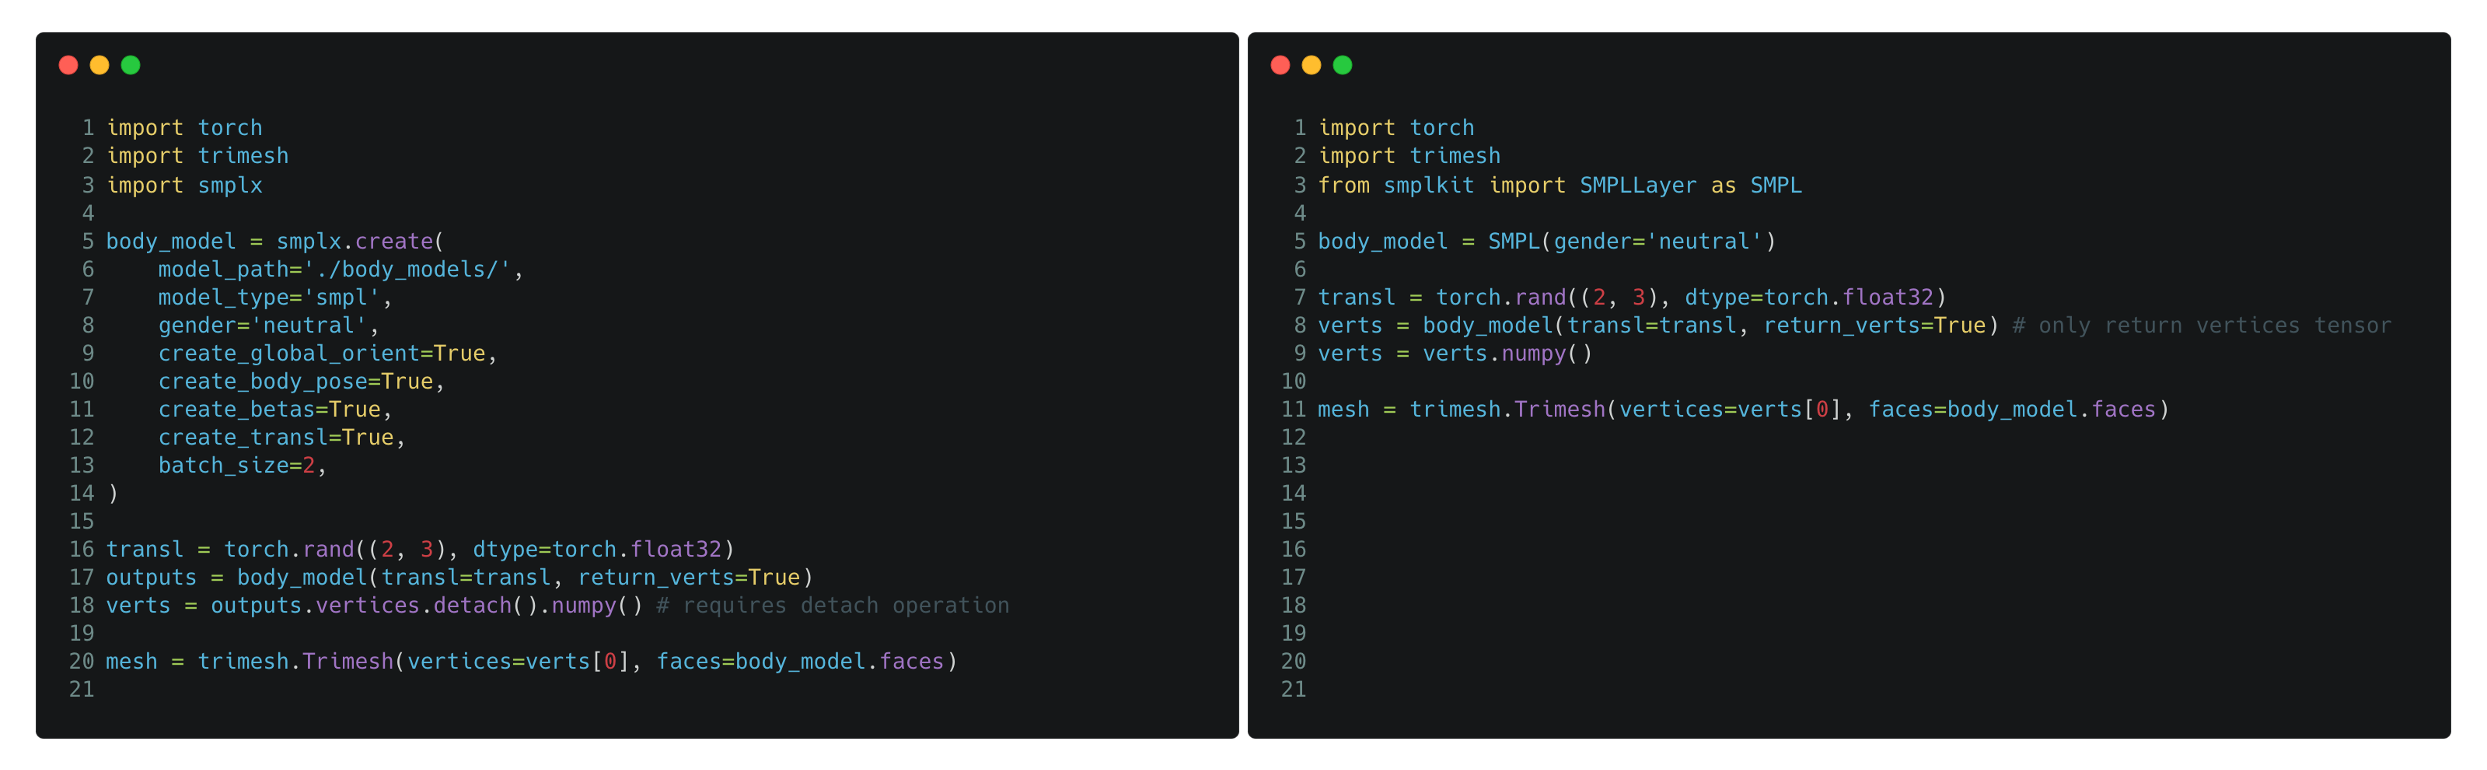
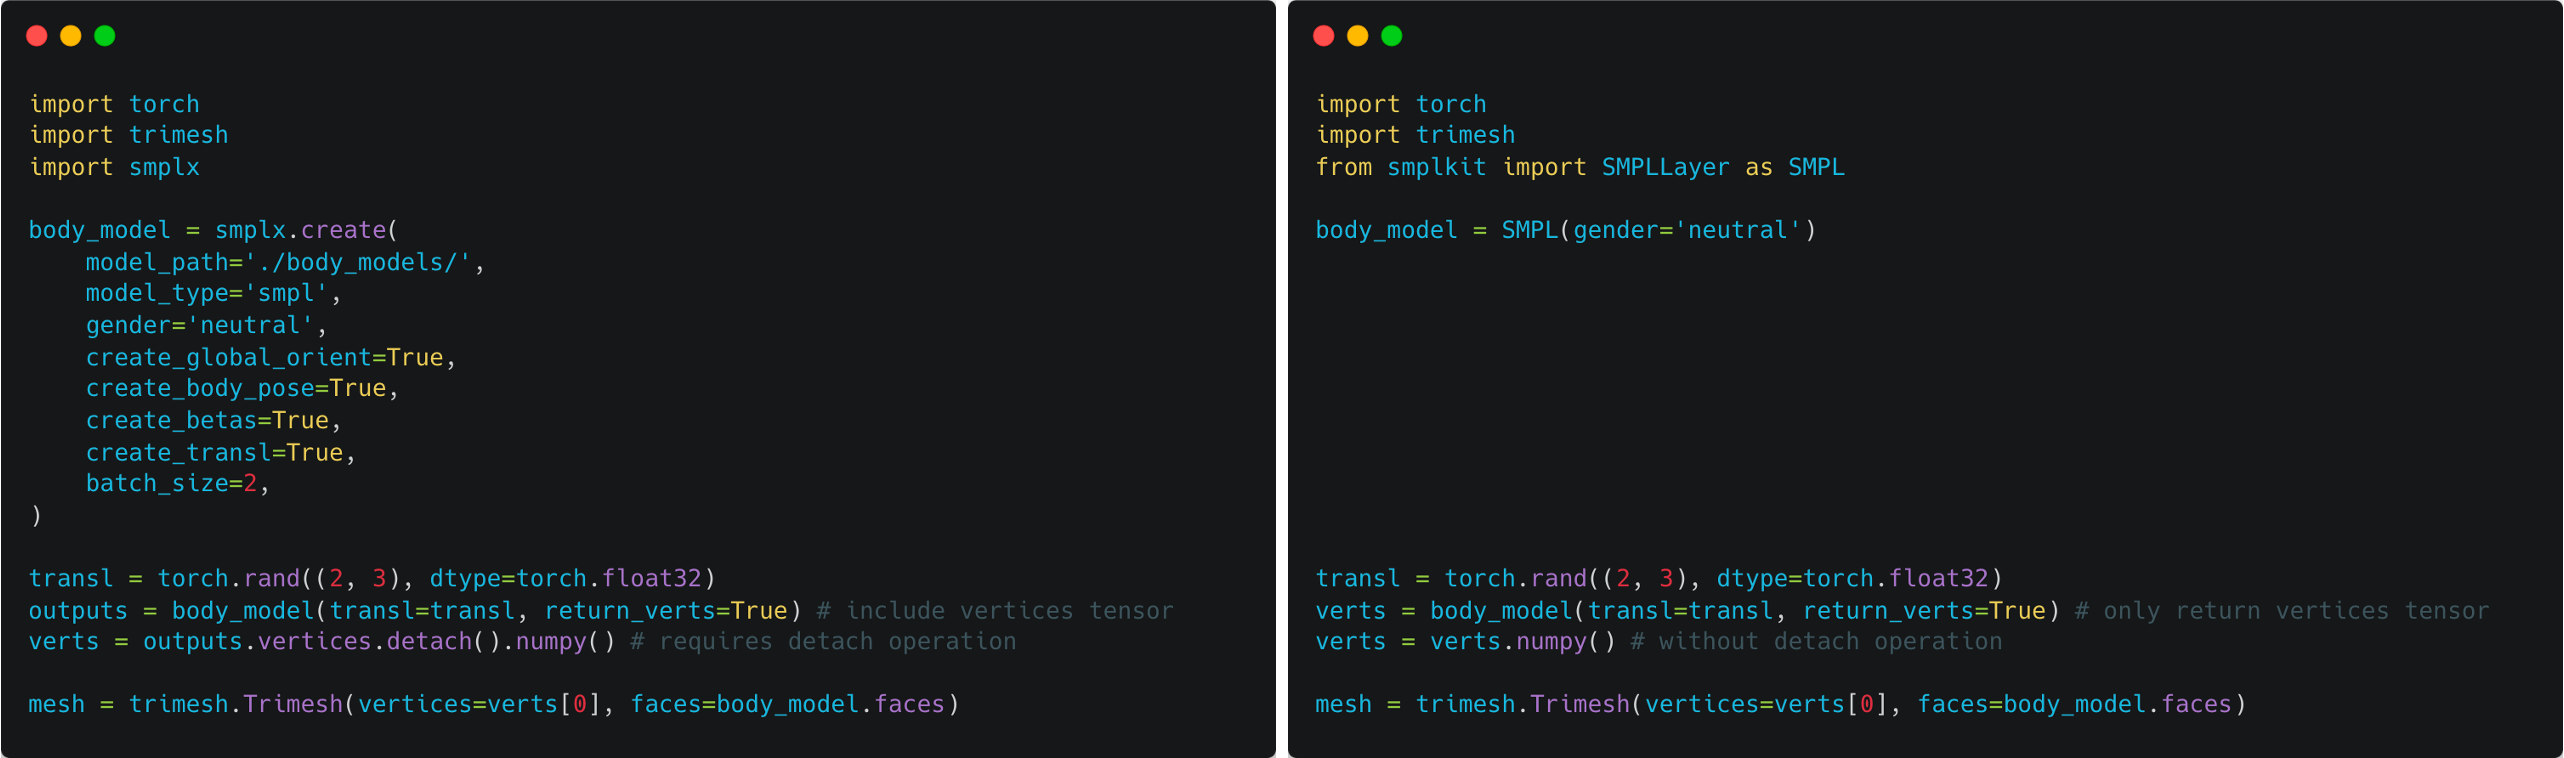
Update readme

Changed region(s): [[0.0, 0.0, 1.0, 1.0]]

diff --git a/README.md b/README.md
@@ -1,9 +1,10 @@
 # smpl-kit
 
-> `smplkit` is a versatile library that simplifies SMPL body model usage with automatic model path search, support different body models, adjustable batch size, and useful utility functions for data processing and visualization.
+> `smplkit` is a versatile library that simplifies SMPL body model usage with automatic model path search, different body models support, adjustable batch size support, and useful utility functions for data processing and visualization.
 
 <div align=center>
-<img src="./assets/smplkit-smplx.png" width="95%">
+<img src="./assets/smplkit-smplx.png" width="100%">
+<i>The left figure utilizes smplx for creating an SMPL body mesh with random translation, while smplkit achieves the same functionality with a more concise code implementation.</i>
 </div>
 
 ## Features
